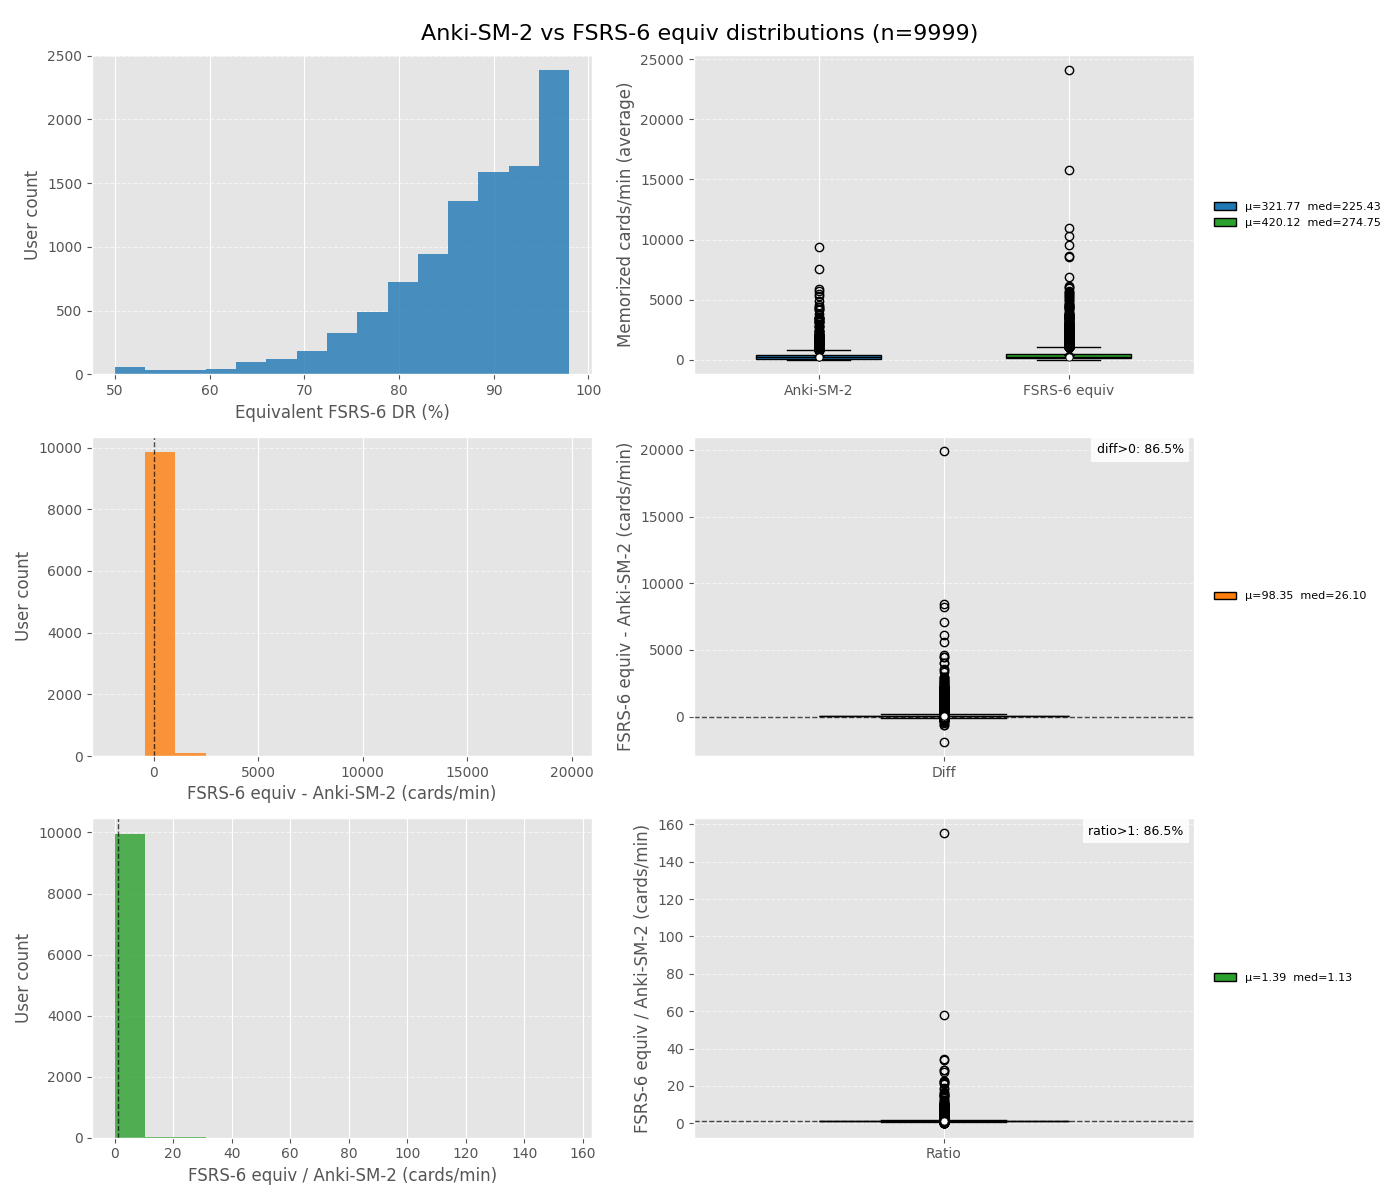
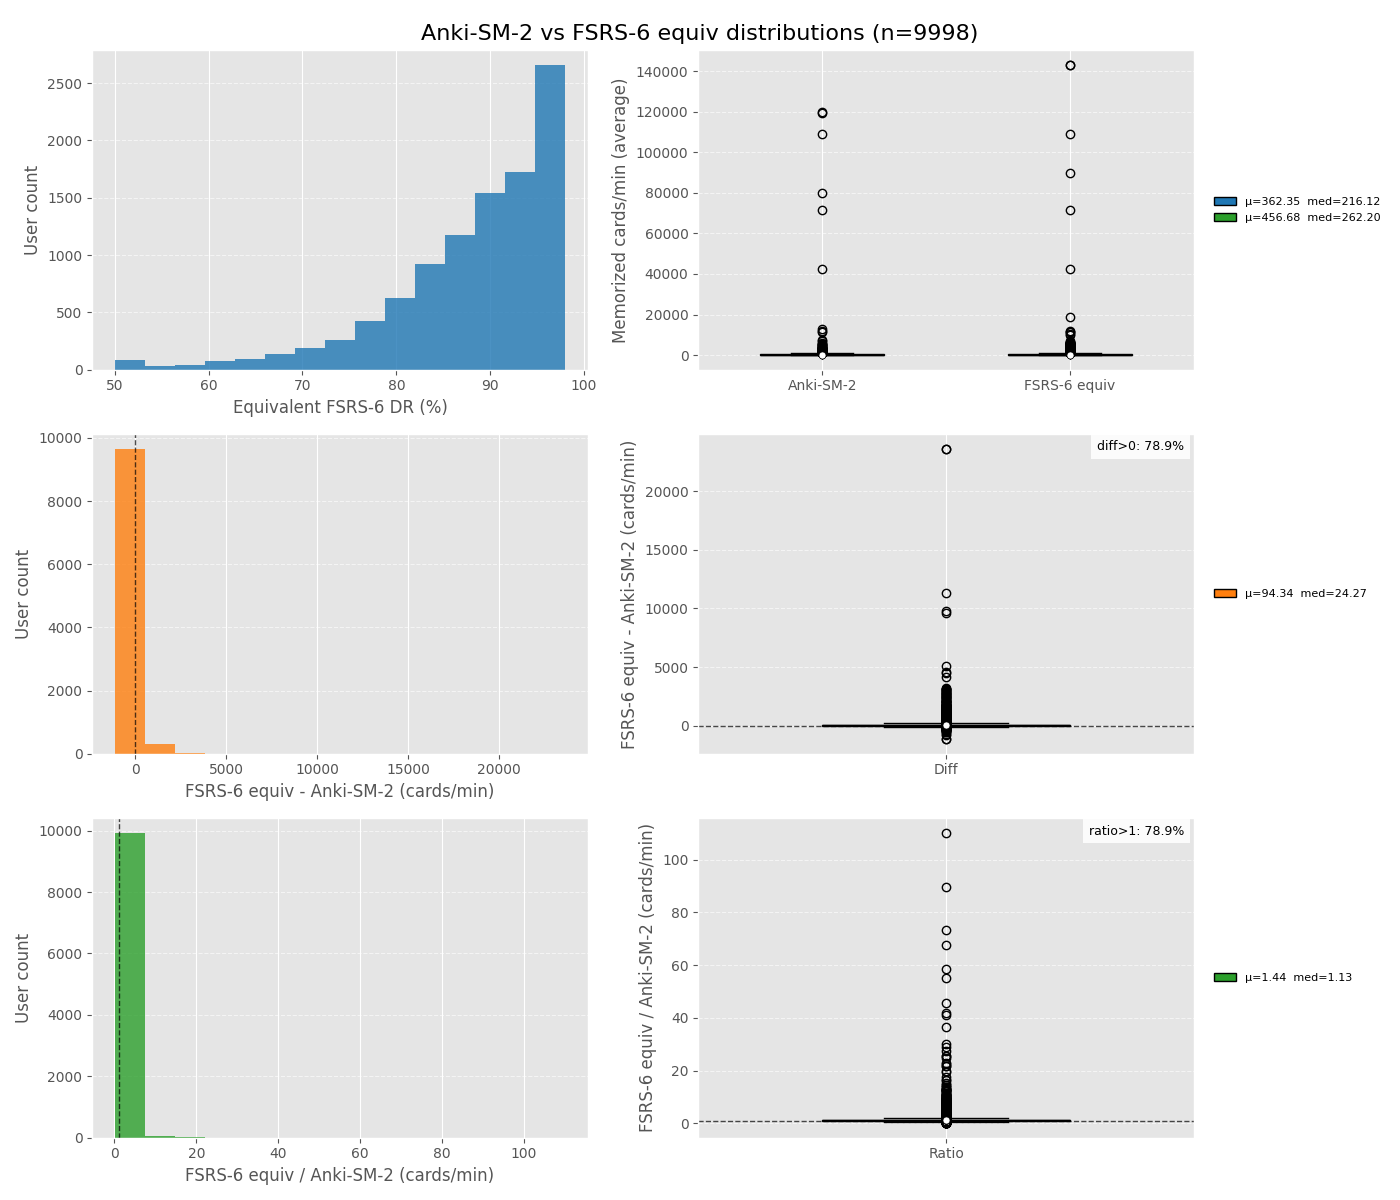
docs(retention-sweep): refresh equivalence plots and flags

diff --git a/README.md b/README.md
@@ -110,7 +110,7 @@ uv run experiments/retention_sweep/dominance_sm2_memrise.py --env lstm
 - `run_sweep_users_batched.py` runs LSTM/FSRS6 retention sweeps in batched vectorized mode; use `--batch-size` to control how many users are simulated in parallel and `--cuda-devices` to distribute batches across multiple GPUs. Short-term steps are supported via `--short-term-source steps`, and LSTM sched-based short-term is supported via `--short-term-source sched`.
 - `SRS_LSTM_MAX_BATCH` defaults to 20000, which typically needs ~12GB of GPU memory; it is best paired with `--batch-size 1000` for throughput.
 - `build_pareto_users.py` fans out `build_pareto.py` across a user-id range.
-- `aggregate_users.py` aggregates per-user retention_sweep logs into summary JSON and plots FSRS-6 equivalent distributions vs Anki-SM-2/Memrise.
+- `aggregate_users.py` aggregates per-user retention_sweep logs into summary JSON and plots FSRS-6 equivalent distributions vs Anki-SM-2/Memrise. Use `--equiv-report fsrs3` (and include `fsrs3` in `--sched`) to switch the equivalence target to FSRSv3.
 - `dominance_sm2_memrise.py` reports per-user dominance rates between Anki-SM-2 and Memrise and saves a stacked bar chart.
 - Note: very high desired retention targets (e.g., `--end-retention 0.99` for FSRS6 sweeps) can dramatically increase GPU memory usage; reduce batch size or cap retention if you hit OOM.
 - Retention range flags use `--start-retention/--end-retention` across the sweep, aggregate, and pareto tools.
@@ -156,7 +156,7 @@ Metrics and outputs:
 - Memorized cards (average, all days): average number of memorized cards across the full simulation horizon.
 - Study minutes per day (average): average study time per day from the logs.
 - Memorized cards per minute (average): memorized cards divided by study minutes, used as the primary efficiency metric.
-- Plots: for baseline schedulers (default Anki-SM-2 and Memrise), it computes each user's FSRS-6 equivalent DR by interpolating FSRS-6 points to match the baseline memorized cards (average, all days), then compares memorized cards per minute (average) distributions along with per-user differences and ratios.
+- Plots: for baseline schedulers (default Anki-SM-2 and Memrise), it computes each user's equivalence-target DR by interpolating the target scheduler (FSRS-6 by default, or FSRSv3 via `--equiv-report fsrs3`) points to match the baseline memorized cards (average, all days), then compares memorized cards per minute (average) distributions along with per-user differences and ratios.
 - Per-user Pareto frontier comparison: `build_pareto_users.py` saves a Pareto frontier plot per user (filename suffixed with `_user_<id>`) into a shared config-specific plot directory, overlaying environments and schedulers to show the efficiency frontier in terms of memorized cards (average, all days) vs memorized cards per minute (average).
 - Axes under default retention_sweep settings (1825 days, deck 10,000, learn limit 10/day, review limit 9,999/day, cost limit 720 minutes/day, review-first, seed 42, vectorized engine): the X axis "Memorized cards (average, all days)" is the expected number of cards remembered per day averaged over the whole run (sum of predicted retrievability across learned cards), and the Y axis "Memorized cards per minute (average)" is computed by taking that average memorized-cards-per-day value and dividing it by the average study minutes per day from the cost model, so it can be read as "how many cards you effectively keep remembered for each minute of study" over the whole run (higher = more efficient use of time, lower = more time spent per remembered card).
 
